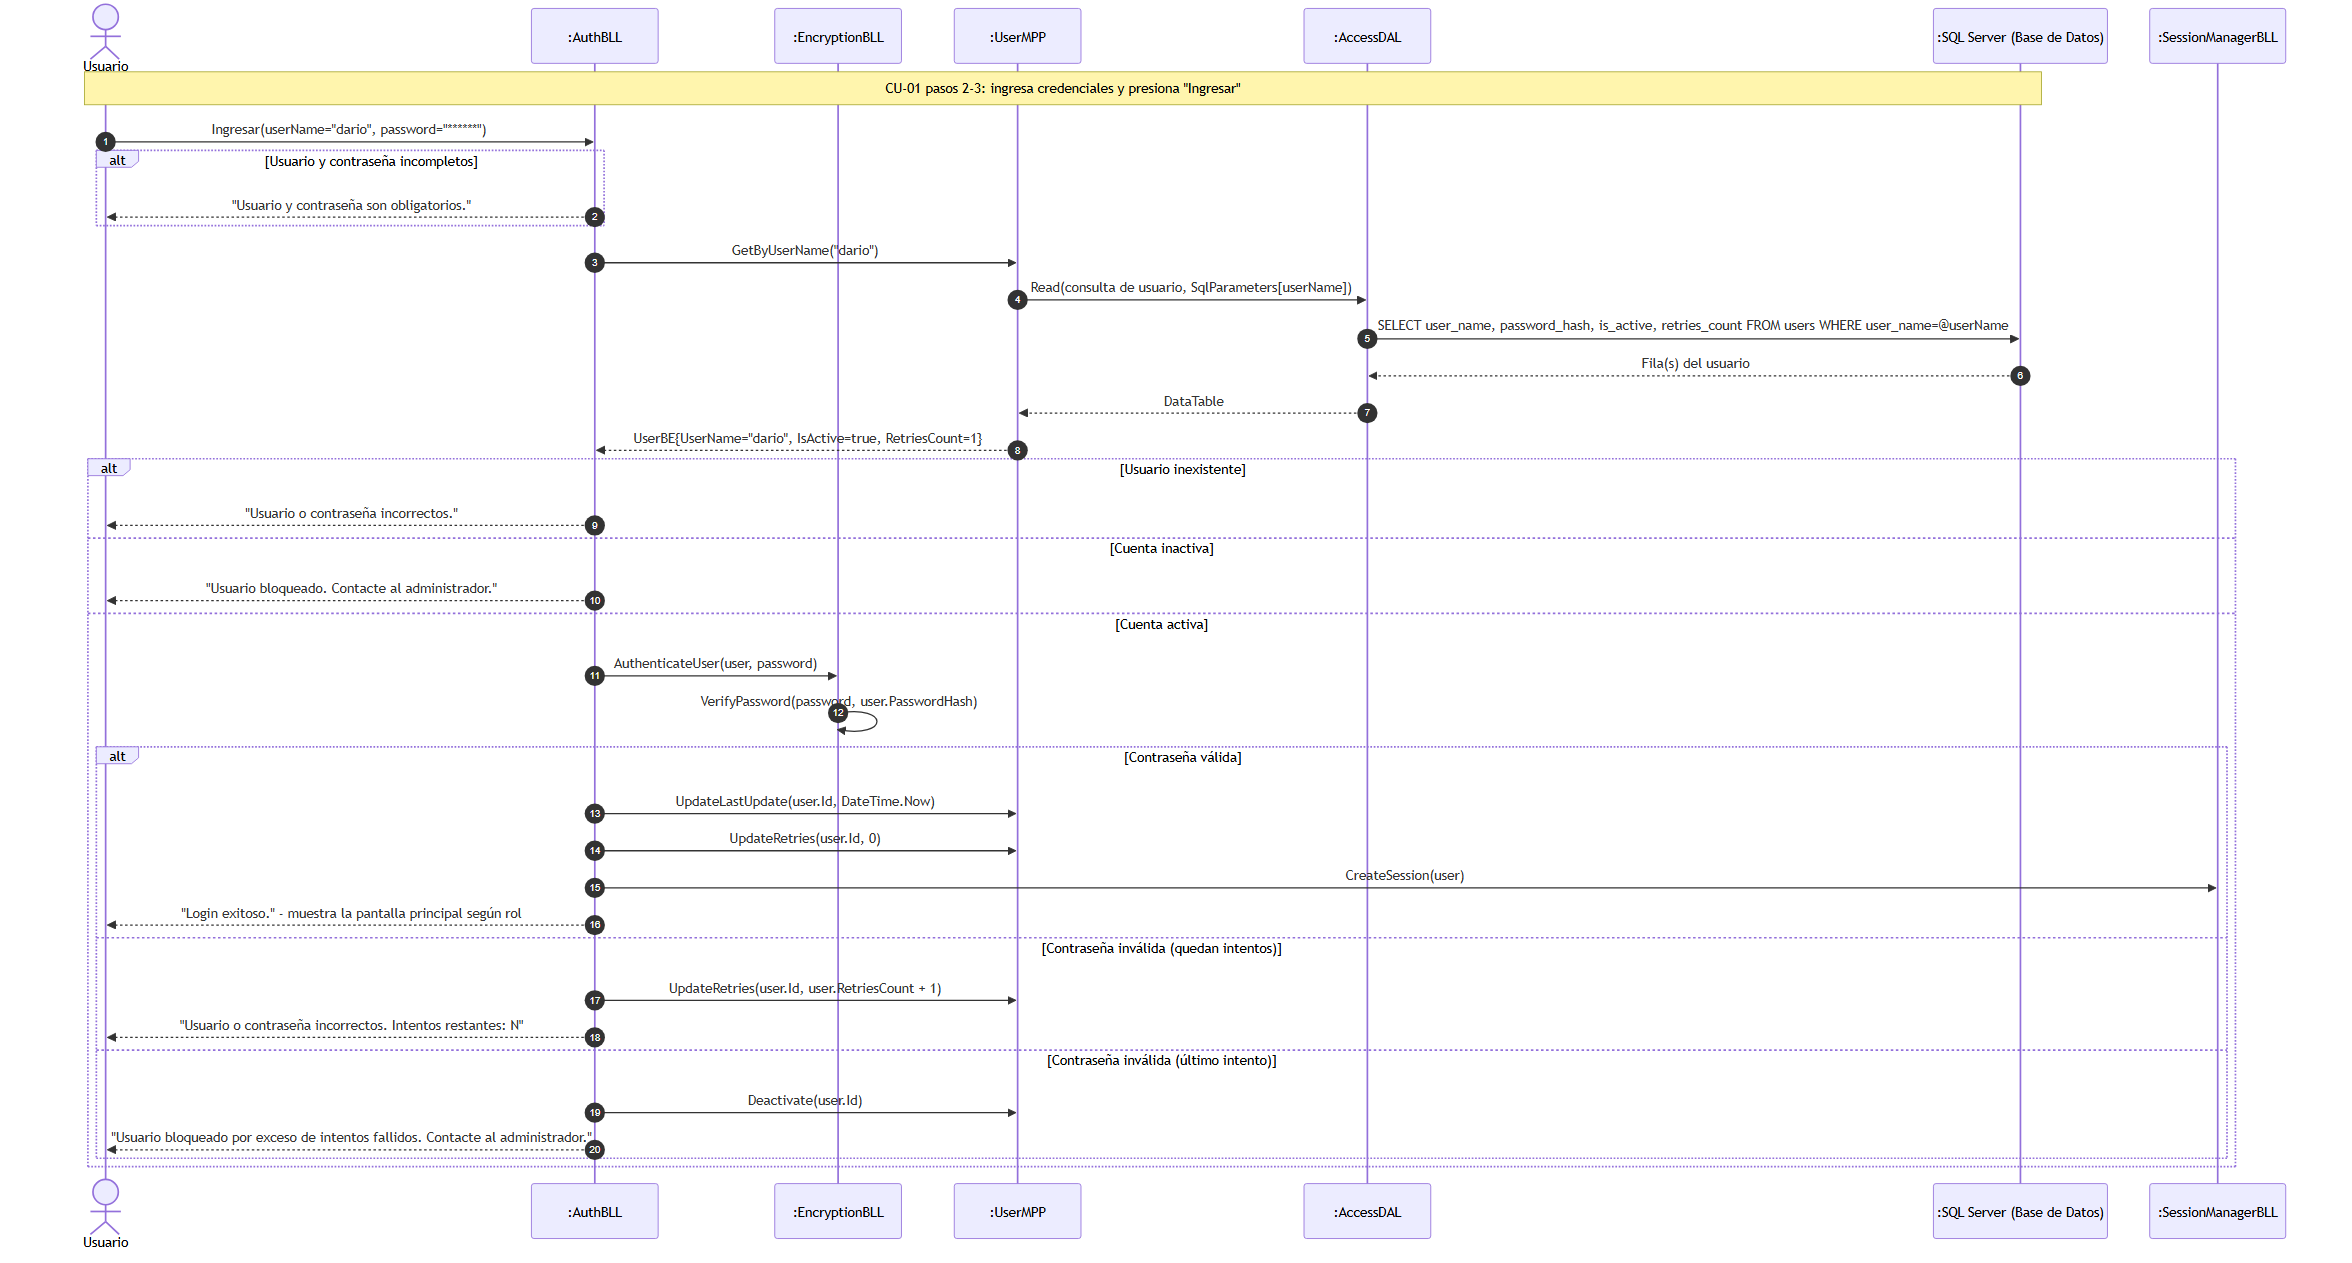
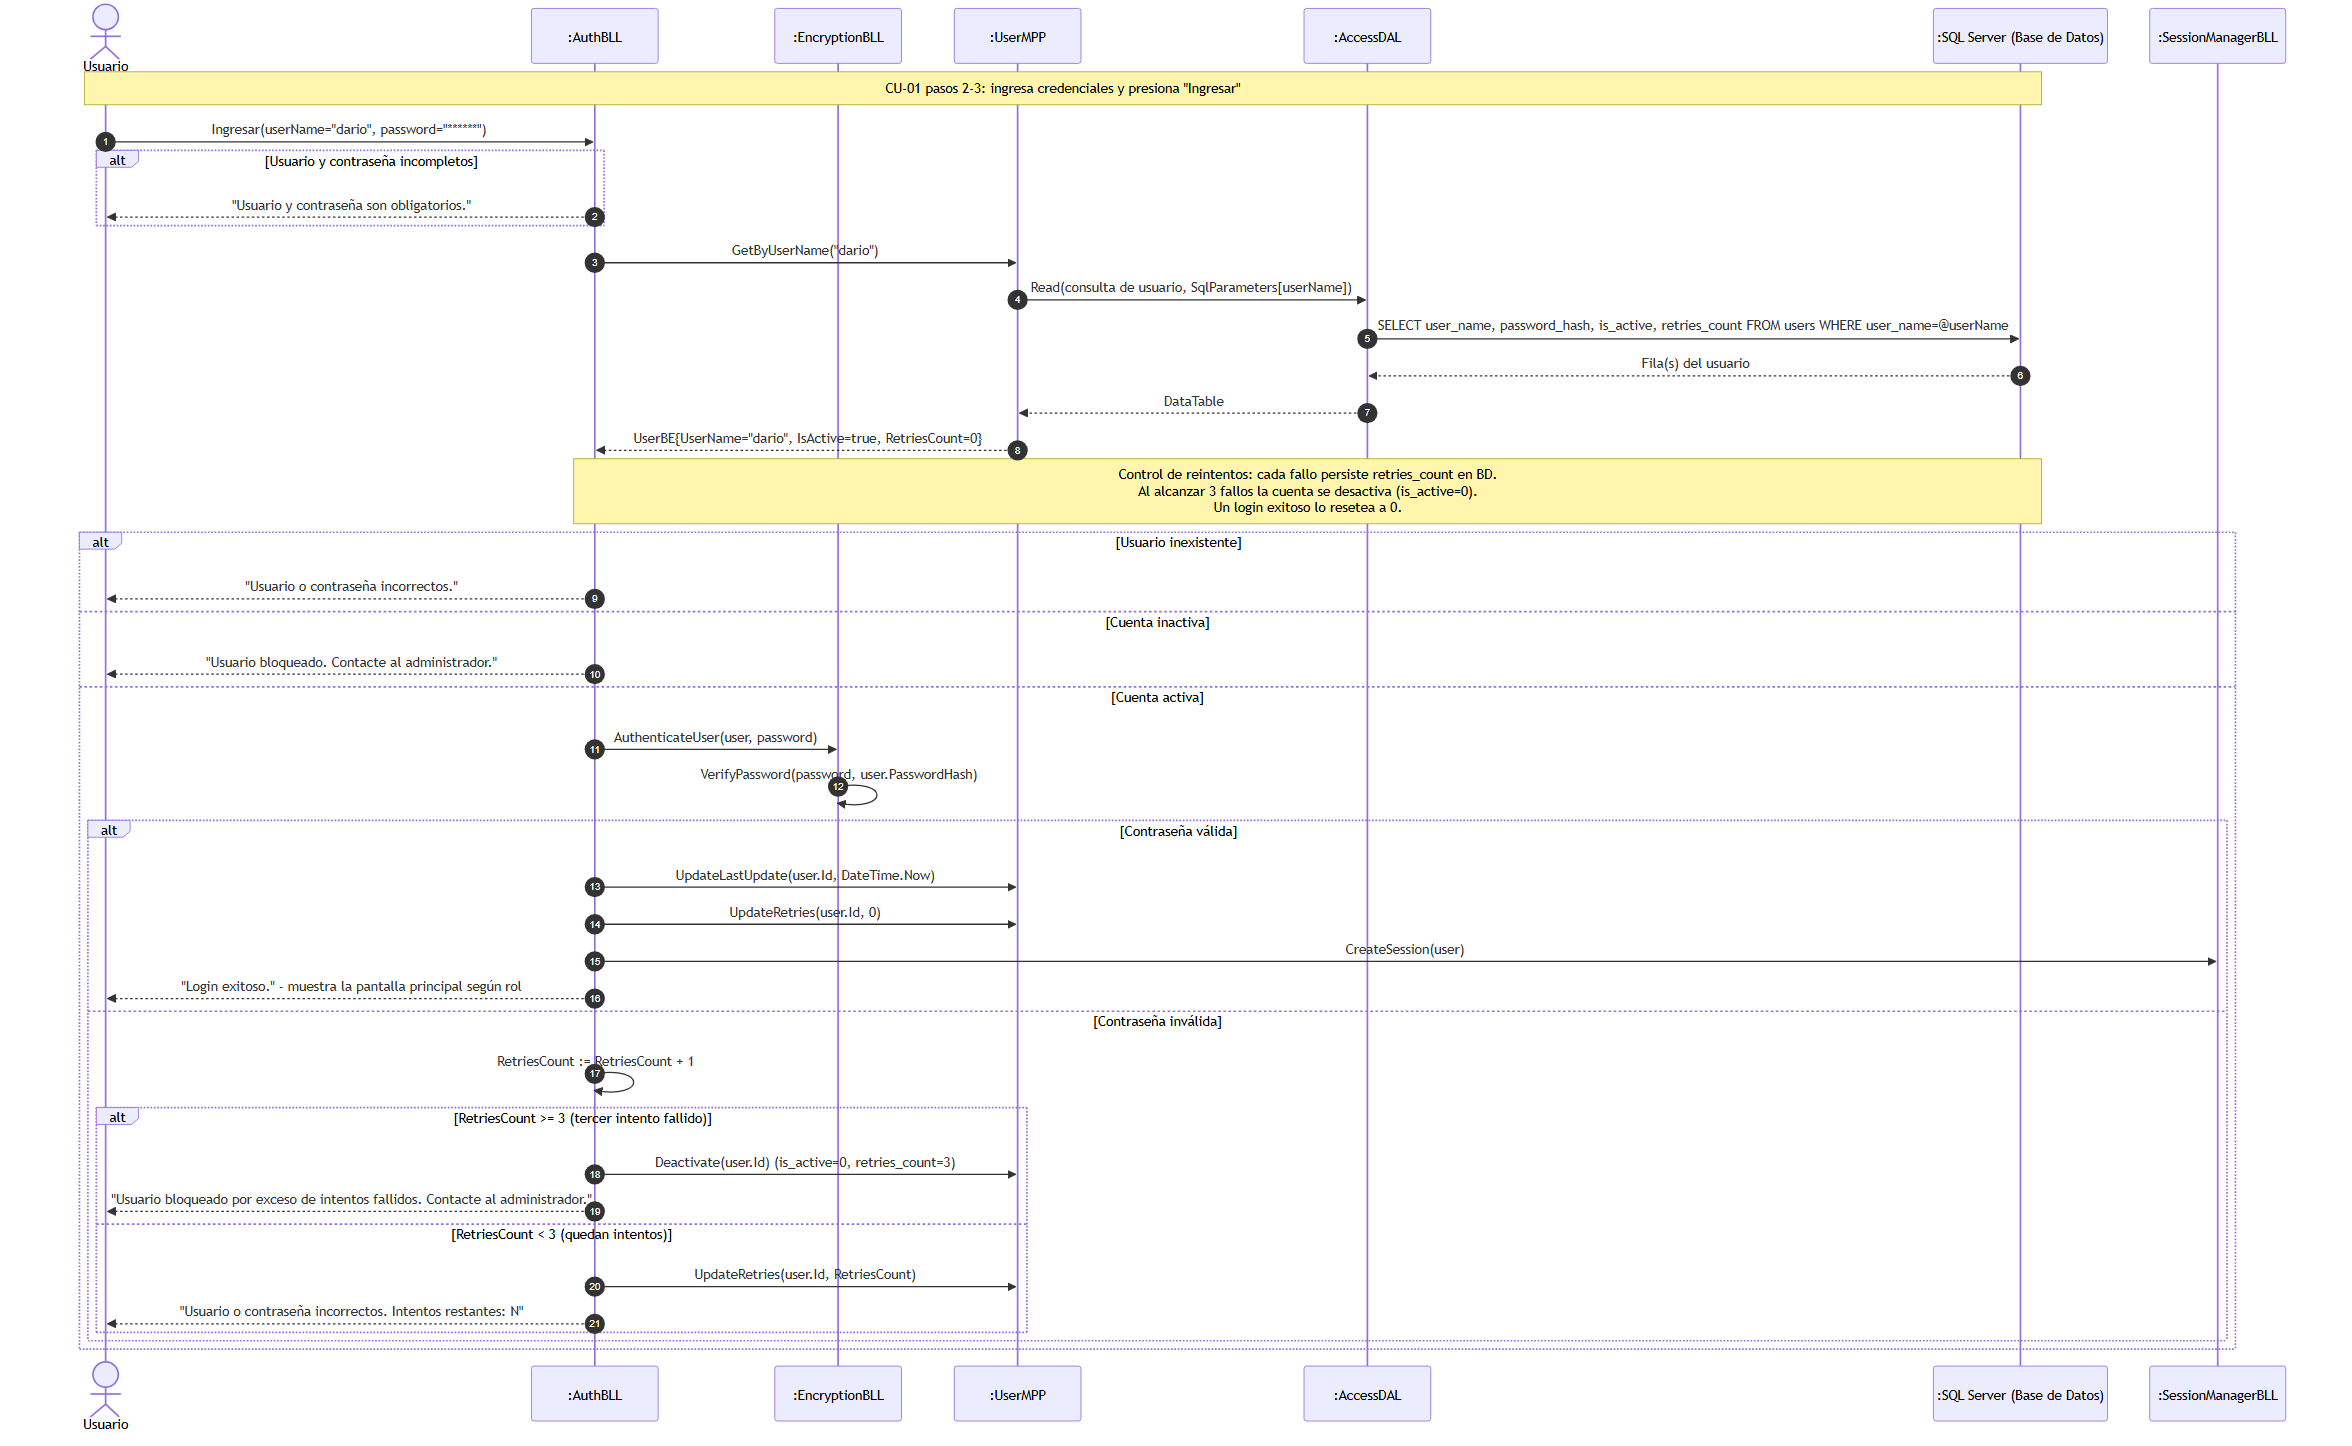
update login: sequence diagrams

diff --git a/docs/md/6.1.CU-01-Login.md b/docs/md/6.1.CU-01-Login.md
@@ -18,6 +18,7 @@
 | Versión | Fecha | Descripción | Autor |
 | :--- | :--- | :--- | :--- |
 | 1.0 | 13/09/2026 | Creación inicial de la especificación del Caso de Uso | Darío Zubaray |
+| 1.1 | 08/10/2026 | Se detalla el procedimiento de 3 reintentos previo al bloqueo de la cuenta (flujos alternativos 3.b/3.c y diagramas de secuencia) | Darío Zubaray |
 
 #### 6.1.3. Objetivo
 
@@ -47,15 +48,18 @@ Flujo alternativo:
 - **3.a Campos obligatorios incompletos:**
   1. El sistema muestra el mensaje "Usuario y contraseña son obligatorios."
   2. El usuario completa los campos y vuelve a presionar "Ingresar".
-- **3.b Credenciales incorrectas con intentos disponibles:**
-  1. El sistema muestra el mensaje "Usuario o contraseña incorrectos. Intentos restantes: N"
+- **3.b Credenciales incorrectas con intentos disponibles (1er y 2do fallo):**
+  1. El sistema incrementa el contador de reintentos de la cuenta y muestra el mensaje "Usuario o contraseña incorrectos. Intentos restantes: N" (N = 2 tras el primer fallo, N = 1 tras el segundo).
   2. El usuario reingresa las credenciales y vuelve a presionar "Ingresar".
-- **3.c Credenciales incorrectas en el último intento (cuenta bloqueada):**
-  1. El sistema muestra el mensaje "Usuario bloqueado por exceso de intentos fallidos. Contacte al administrador." y bloquea la cuenta.
+  3. El contador se persiste en la base de datos, por lo que los intentos fallidos se acumulan entre sesiones.
+- **3.c Credenciales incorrectas en el tercer intento (cuenta bloqueada):**
+  1. Al tercer intento fallido el sistema desactiva la cuenta (estado "inactivo") y muestra el mensaje "Usuario bloqueado por exceso de intentos fallidos. Contacte al administrador."
   2. Fin del Caso de Uso: la cuenta queda inactiva.
 - **3.d Cuenta bloqueada al ingresar:**
-  1. El sistema muestra el mensaje "Usuario bloqueado. Contacte al administrador."
+  1. El sistema muestra el mensaje "Usuario bloqueado. Contacte al administrador." (verificada antes de evaluar la contraseña).
   2. Fin del Caso de Uso: la cuenta permanece inactiva.
+
+Nota: un inicio de sesión exitoso resetea el contador de reintentos a 0.
 
 #### 6.1.7. Modelo de Dominio
 
@@ -87,9 +91,9 @@ sequenceDiagram
     AUT-->>Usuario: Confirma el acceso y muestra las opciones del rol
 
     Note over Usuario,BD: CU-01 - Flujo alternativo (pasos 3.a a 3.d del caso de uso)
-    alt Credenciales incorrectas con intentos disponibles
+    alt Credenciales incorrectas (1er y 2do fallo, quedan intentos)
         AUT-->>Usuario: "Usuario o contraseña incorrectos. Intentos restantes: N"
-    else Credenciales incorrectas (último intento)
+    else Credenciales incorrectas (3er fallo, sin intentos restantes)
         AUT->>UST: Bloquear la cuenta del usuario
         AUT-->>Usuario: "Usuario bloqueado por exceso de intentos fallidos."
     else Cuenta inactiva
